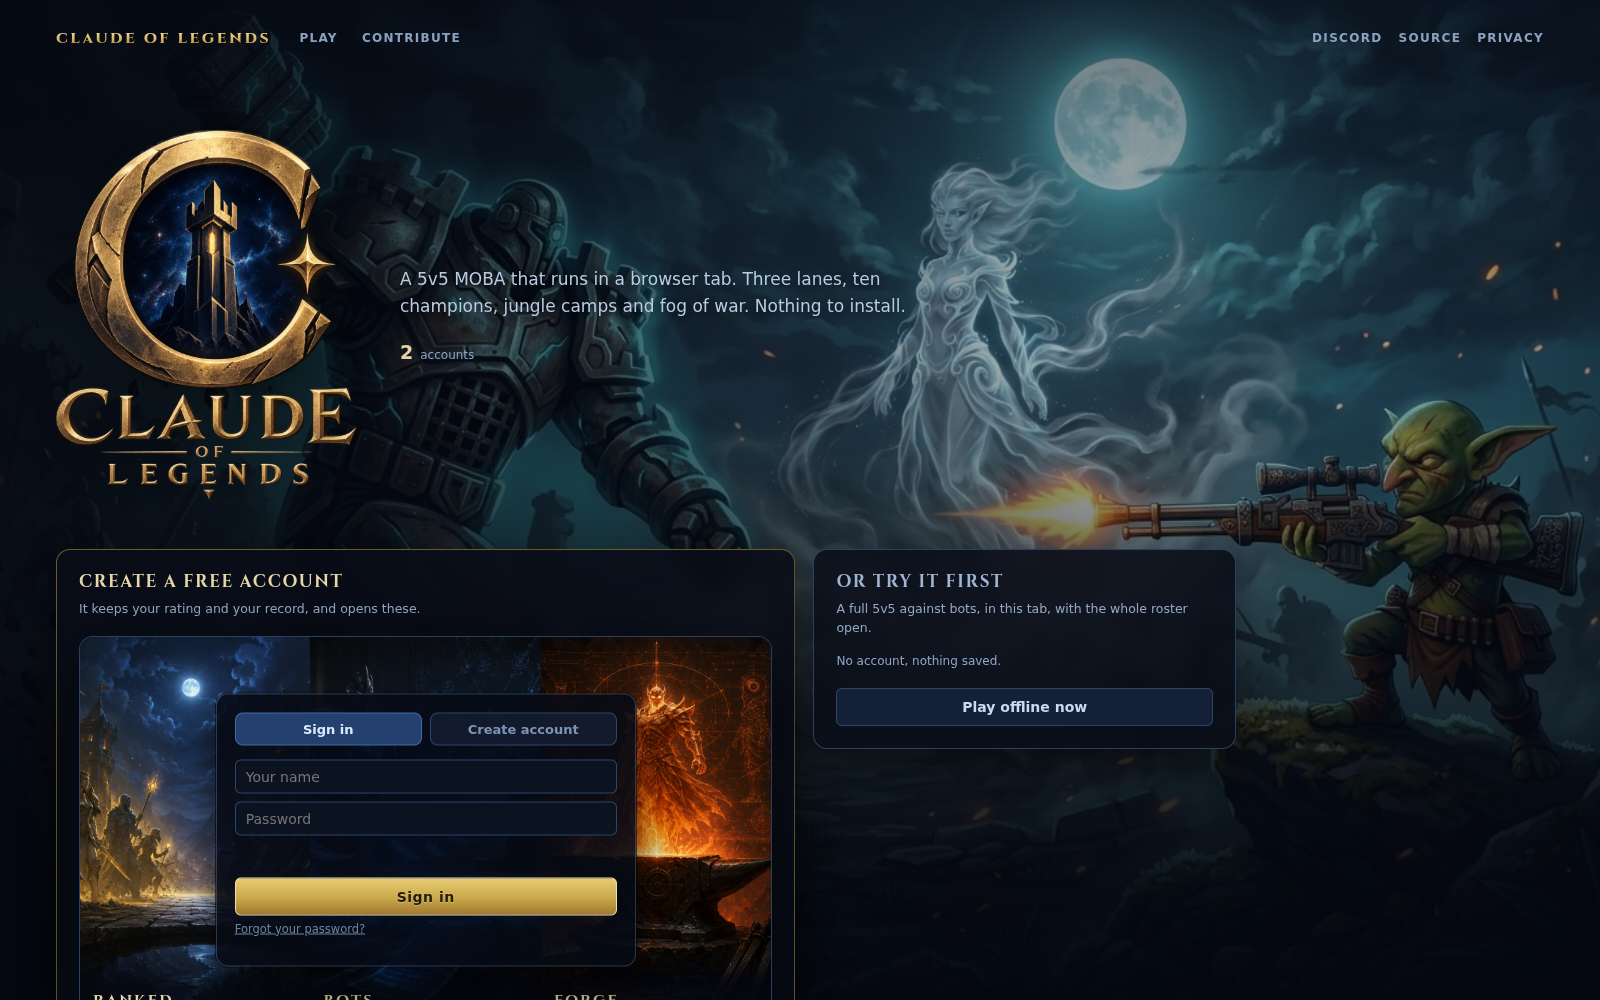
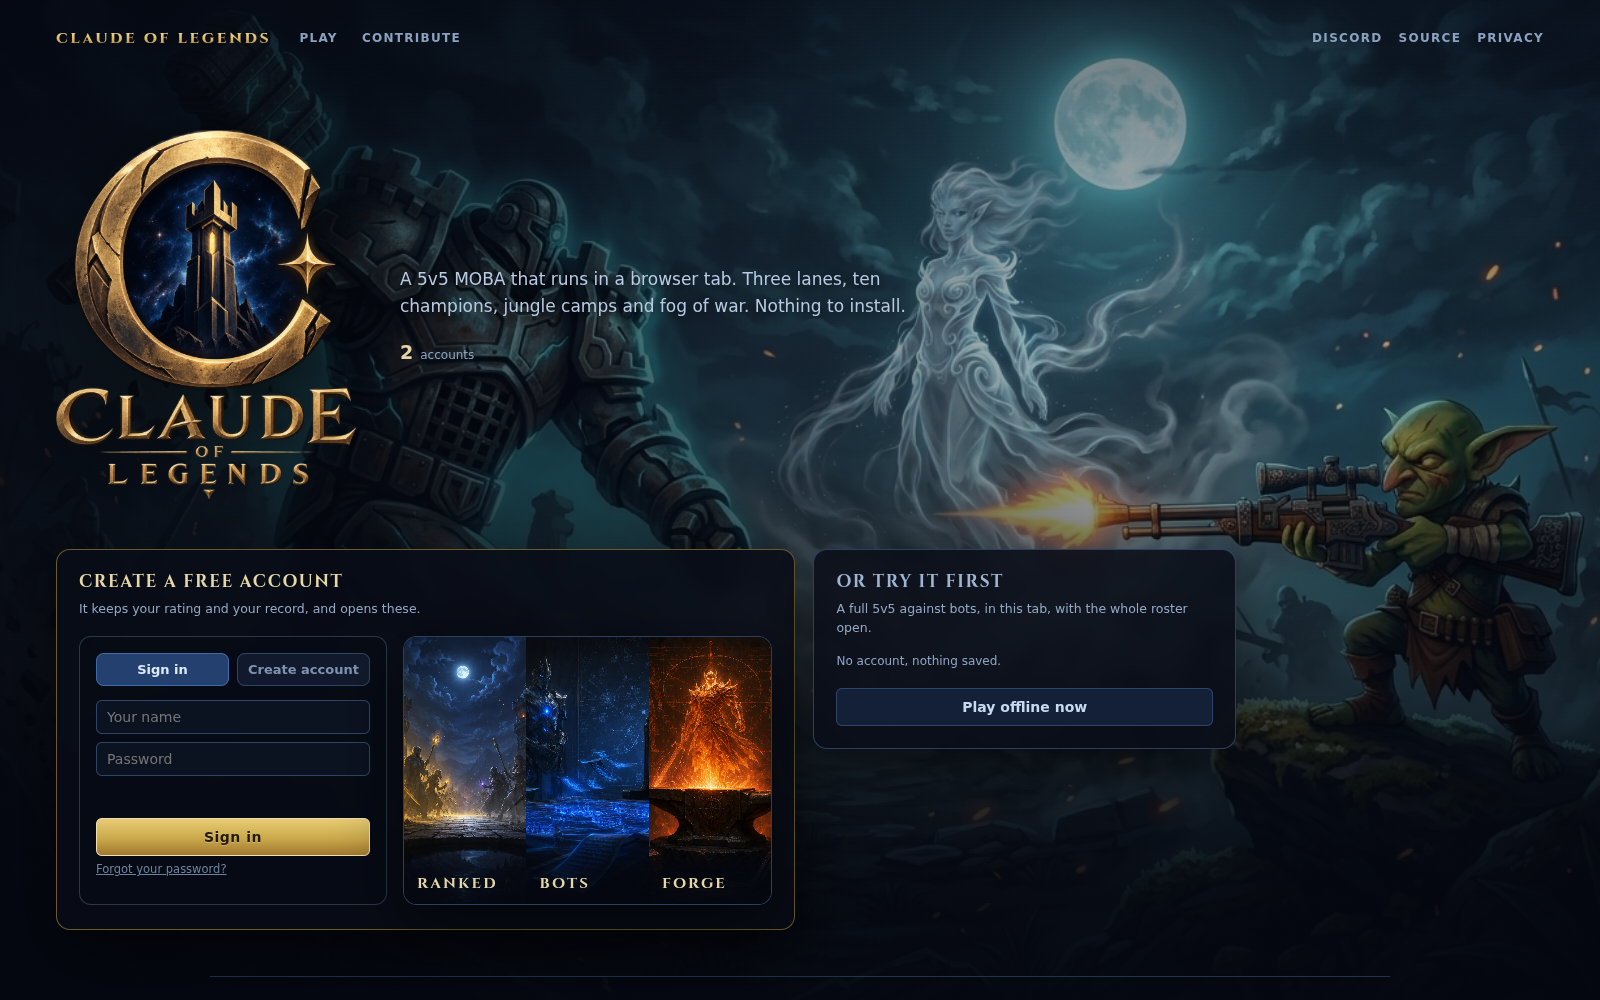
fix(ui): the sign-in stands beside the paintings, not on them
A panel floating over the band hid the middle painting entirely and put
the form's own background between the reader and the art. Side by side
instead, the form first: it is the thing to press, and the three
paintings are what pressing it opens.

The band takes no ratio of its own any more. It stretches to whatever
height the form happens to be, so each painting is a third of the band's
width by the whole of the form's height and the two line up at the top
and the foot by construction, with nothing to guess at when the form
grows a row.

Narrow, the two stack and the band goes first, since with no form beside
it the band has no height to borrow and takes an upright one of its own.

Claude-Session: https://claude.ai/code/session_01LHBjYZtNo6gxLVJHxRSxGN

Changed region(s): [[0.0312, 0.62, 0.5, 1.0], [0.1875, 0.961, 0.2812, 1.0], [0.3438, 0.992, 0.375, 1.0]]

diff --git a/src/ui/landing.ts b/src/ui/landing.ts
@@ -37,31 +37,30 @@ const CSS = `
    door and the room behind it look alike. Upright and edge to edge, with
    no gap between them: one band of art rather than three chips, and the
    form sits on it rather than under it. */
-.pg-opens { position: relative; display: grid; gap: 0; margin: 4px 0 2px;
-  grid-template-columns: repeat(3, minmax(0, 1fr));
+/* The form and the band, side by side, the form first: it is the thing to
+   press, and the paintings are what pressing it opens. The band stretches
+   to whatever height the form takes rather than setting its own, so the
+   three paintings line up with the form's top and foot by construction
+   and no ratio has to be guessed at. */
+.pg-open-row { display: grid; gap: 16px; margin: 4px 0 2px; align-items: stretch;
+  grid-template-columns: minmax(0, 5fr) minmax(0, 6fr); }
+.pg-opens { display: grid; gap: 0; grid-template-columns: repeat(3, minmax(0, 1fr));
   border-radius: 14px; overflow: hidden; border: 1px solid #2b3f60;
   box-shadow: 0 22px 60px rgba(0, 0, 0, 0.55); }
-/* The form, over the band. It floats in the middle so each painting keeps
-   its own foot, where its name is: a panel rather than a full scrim, or
-   the three names would be dimmed by the very thing standing on them. */
-.pg-opens-form { position: absolute; left: 50%; top: 50%; z-index: 1;
-  transform: translate(-50%, -50%); width: min(420px, calc(100% - 36px));
-  padding: 18px; border-radius: 12px; border: 1px solid rgba(140, 168, 208, 0.28);
-  background: rgba(6, 10, 20, 0.9);
-  box-shadow: 0 18px 50px rgba(0, 0, 0, 0.7), 0 0 0 1px rgba(4, 7, 16, 0.6); }
+.pg-opens-form { display: flex; flex-direction: column; justify-content: center;
+  padding: 16px; border-radius: 12px; border: 1px solid rgba(140, 168, 208, 0.28);
+  background: rgba(6, 10, 20, 0.72); }
 /* Each card is its own height now, so there is no shared foot to pin the
    button to: it sits under the line that sells it. */
 .pg.land .pg-card.plain .menu-btn { margin-top: 4px; }
 
 /* One painting of the band. Not a button: all three are account features
    (ADR 0006), so they carry no call to action and none lifts under the
-   pointer; the form standing on them is the thing to press.
-   Upright, and taller than the 3/4 the paintings are cropped to
-   elsewhere: the panel in the middle is 270px of form, and at 3/4 it
-   covered all three names. The band has to be tall enough that each
-   painting keeps a foot below the panel to write its name on. */
+   pointer; the form beside them is the thing to press. No ratio of its
+   own: a third of the band's width by the whole of the form's height,
+   which is upright at every width the row survives. */
 .pg-mode { position: relative; overflow: hidden; background: #0a1120;
-  display: flex; align-items: flex-end; aspect-ratio: 3 / 5; }
+  display: flex; align-items: flex-end; height: 100%; min-height: 0; }
 /* Both paintings are composed upright, which is why they can fill a tall
    column edge to edge. The subject sits high in each, so the crop favours
    the top and leaves the foot scrim room to sit on sky rather than on a
@@ -85,16 +84,14 @@ const CSS = `
      form, and a form pushed below the fold is a form nobody fills. */
   .pg.land .pg-cards { grid-template-columns: minmax(0, 1fr); max-width: 620px; gap: 22px; }
 }
-/* Narrow, three upright paintings leave the panel no room to float in, so
-   it comes down and stands under the band. The art stays three across: it
-   is the row the home draws, and a stack of three would be a page of its
-   own. */
+/* Narrow, the two stack and the band goes first: it is what the card is
+   selling, and the form is what the reader scrolls to when they have
+   decided. With no form beside it the band has no height to borrow, so it
+   takes one of its own, upright the way the home draws it. */
 @media (max-width: 560px) {
-  .pg-opens { border-radius: 12px 12px 0 0; }
-  /* Static, the panel is a grid item again, so it has to be told to
-     cross all three columns instead of standing in the first one. */
-  .pg-opens-form { position: static; transform: none; width: auto;
-    grid-column: 1 / -1; border-radius: 0 0 12px 12px; border-top: 0; }
+  .pg-open-row { grid-template-columns: minmax(0, 1fr); gap: 12px; }
+  .pg-opens { order: -1; }
+  .pg-mode { height: auto; aspect-ratio: 3 / 4; }
   .pg-mode-body { padding: 30px 8px 8px; }
   .pg-mode h3 { font-size: 12px; letter-spacing: 1.2px; }
 }
@@ -239,9 +236,8 @@ export function showLanding(
       el('p', '', 'It keeps your rating and your record, and opens these.'),
     );
     // The three the home stands at full height, wearing the paintings the
-    // home gives them, and the form stands ON the band rather than under
-    // it: what an account opens is the backdrop of the thing that opens
-    // it.
+    // home gives them, standing beside the form rather than under it:
+    // what an account opens, next to the thing that opens it.
     const opens = el('div', 'pg-opens');
     for (const mode of LANDING_MODES) {
       const art = el('img', '');
@@ -260,8 +256,9 @@ export function showLanding(
     formPanel.appendChild(
       buildAuthForm((account) => finish({ kind: 'account', account }), discordResult),
     );
-    opens.appendChild(formPanel);
-    online.appendChild(opens);
+    const openRow = el('div', 'pg-open-row');
+    openRow.append(formPanel, opens);
+    online.appendChild(openRow);
 
     // The other way in, and the only one that needs nothing. It says what
     // it is in one line: a visitor who has read the title of the page
